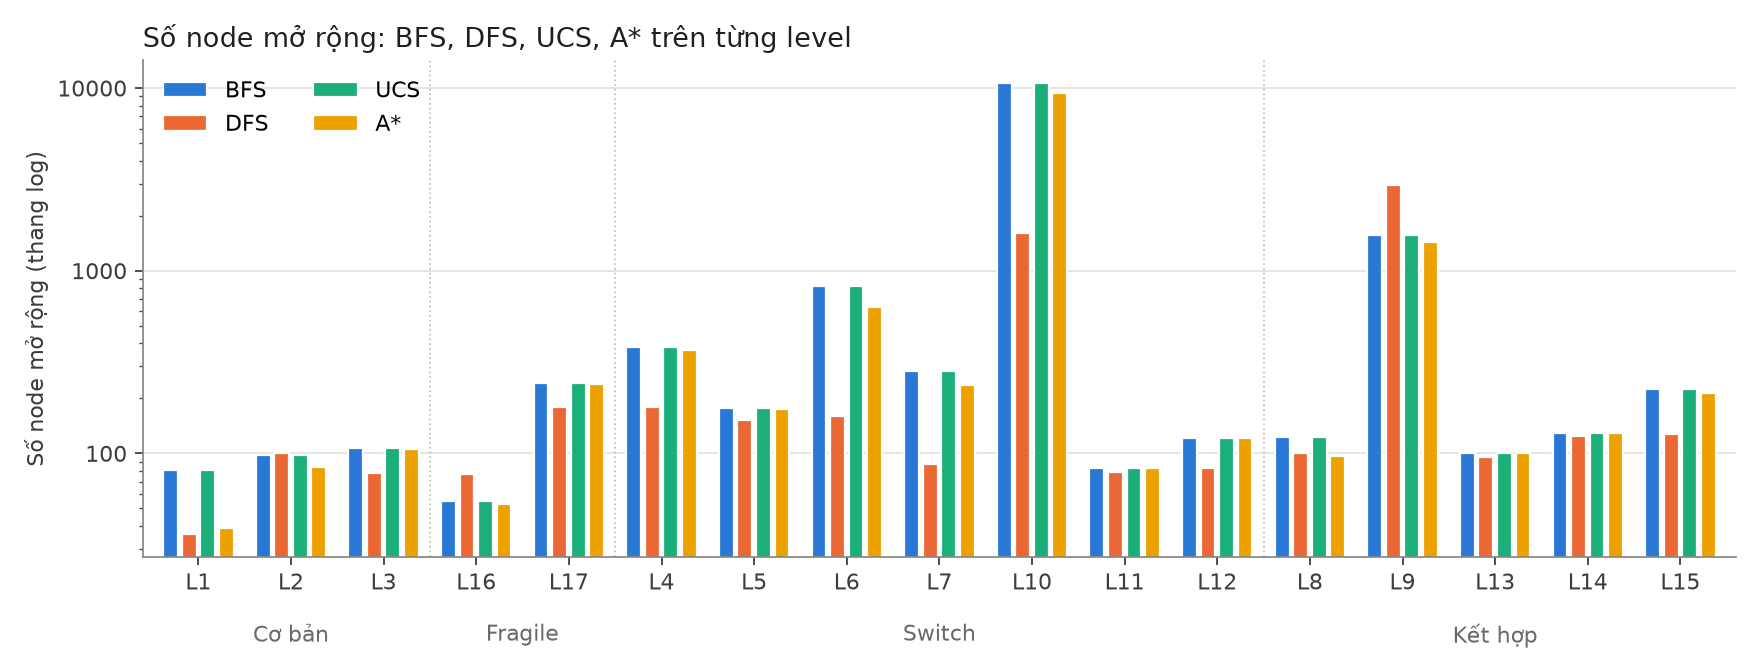
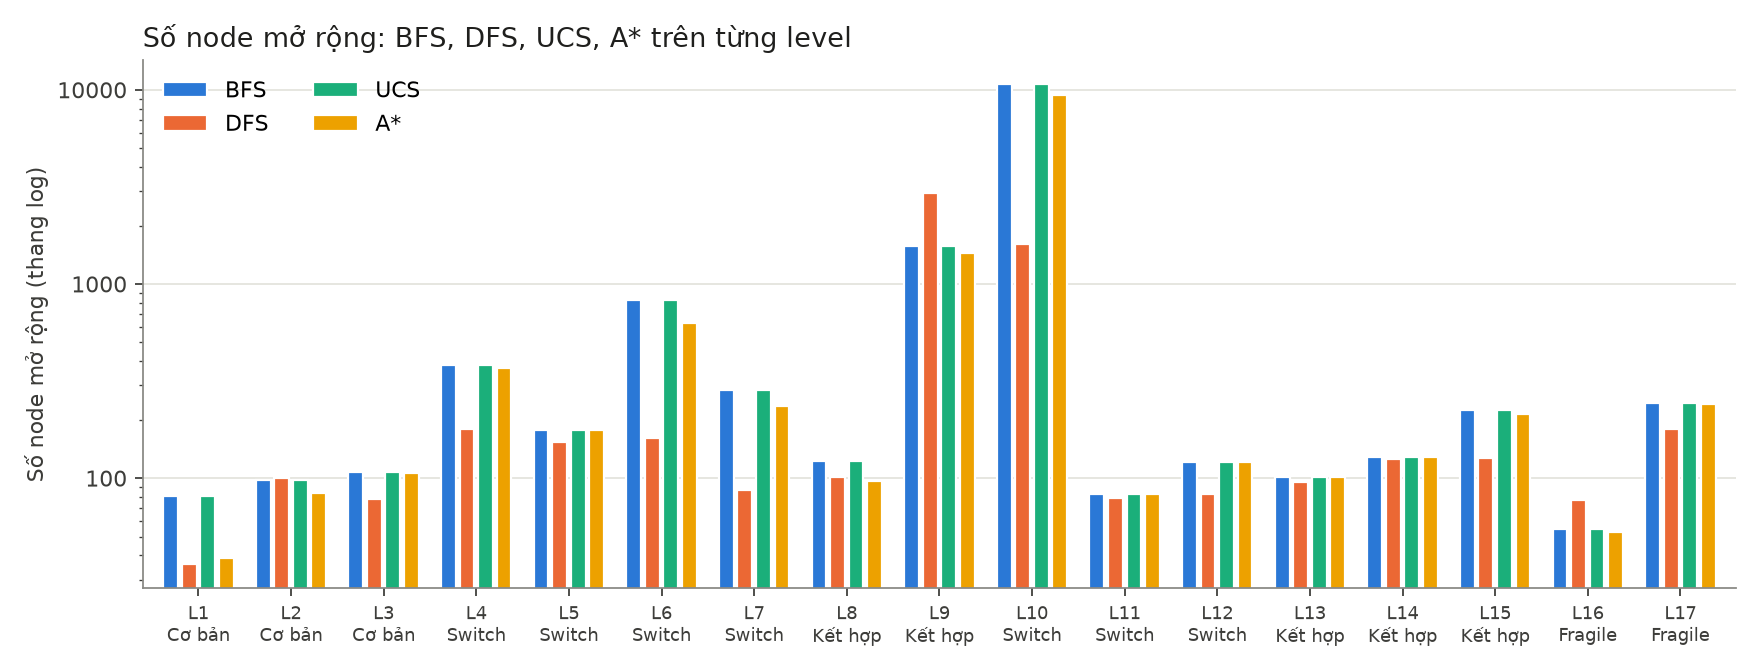
Sort charts by level and add warm-up before timing

diff --git a/source/experiments/bfs_dfs_experiment.py b/source/experiments/bfs_dfs_experiment.py
@@ -102,9 +102,20 @@ def measure(name, search_fn, level, runs: int) -> dict:
     }
 
 
+def warm_up(paths) -> None:
+    """Chạy thử mọi thuật toán trên mọi level một lần (không đo) để CPU và
+    bộ nhớ đệm ổn định, tránh các màn đầu bị đo chậm hơn thực tế."""
+    for path in paths:
+        level = load_level(path)
+        for fn in ALGORITHMS.values():
+            fn(level)
+
+
 def run_all(runs: int) -> list[dict]:
     rows = []
     paths = sorted(LEVELS_DIR.glob("level*.json"), key=level_number)
+    print("Đang chạy khởi động (warm-up)...")
+    warm_up(paths)
     for path in paths:
         level = load_level(path)
         group = classify(path)
@@ -186,7 +197,7 @@ def plot(rows: list[dict], out_dir: Path) -> None:
     from matplotlib.ticker import FuncFormatter
 
     groups = {r["level"]: r["group"] for r in rows}
-    levels = sorted(groups, key=lambda lv: (GROUP_ORDER.index(groups[lv]), lv))
+    levels = sorted(groups)
     plain = FuncFormatter(lambda v, _: f"{v:g}")
     by_key = {(r["level"], r["algorithm"]): r for r in rows}
 
@@ -199,7 +210,7 @@ def plot(rows: list[dict], out_dir: Path) -> None:
 
     width = 0.8 / len(ALGORITHMS)
     x = list(range(len(levels)))
-    labels = [f"L{lv}" for lv in levels]
+    labels = [f"L{lv}\n{groups[lv]}" for lv in levels]
 
     for key, title, filename, log in metrics:
         fig, ax = plt.subplots(figsize=(11, 4.2), dpi=160)
@@ -213,23 +224,12 @@ def plot(rows: list[dict], out_dir: Path) -> None:
         if log:
             ax.set_yscale("log")
             ax.yaxis.set_major_formatter(plain)
-        ax.set_xticks(x, labels)
+        ax.set_xticks(x, labels, fontsize=8)
         ax.set_xlim(-0.6, len(levels) - 0.4)
         ax.set_title(f"{title}: {', '.join(ALGORITHMS)} trên từng level", loc="left", fontsize=12, color="#1f1f1d")
         ax.set_ylabel(title + (" (thang log)" if log else ""))
         ax.legend(frameon=False, loc="upper left", ncols=2)
 
-        for g in GROUP_ORDER:
-            idx = [i for i, lv in enumerate(levels) if groups[lv] == g]
-            if not idx:
-                continue
-            if idx[0] != 0:
-                ax.axvline(idx[0] - 0.5, color="#c3c2b7", linewidth=0.8, linestyle=":")
-            ax.annotate(
-                g, xy=((idx[0] + idx[-1]) / 2, 0), xycoords=("data", "axes fraction"),
-                xytext=(0, -30), textcoords="offset points",
-                ha="center", va="top", fontsize=10, color="#6b6b66",
-            )
         fig.tight_layout()
         fig.savefig(out_dir / filename)
         plt.close(fig)
